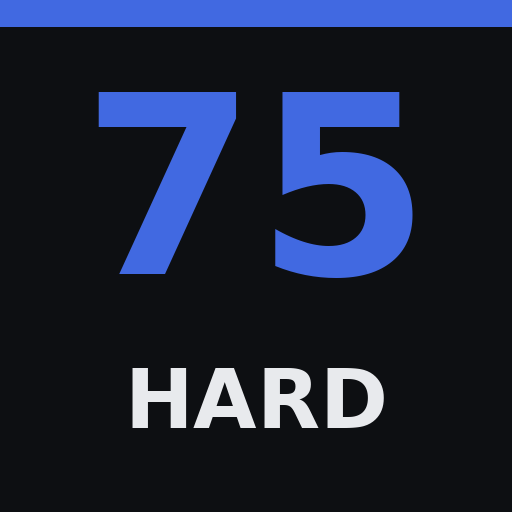
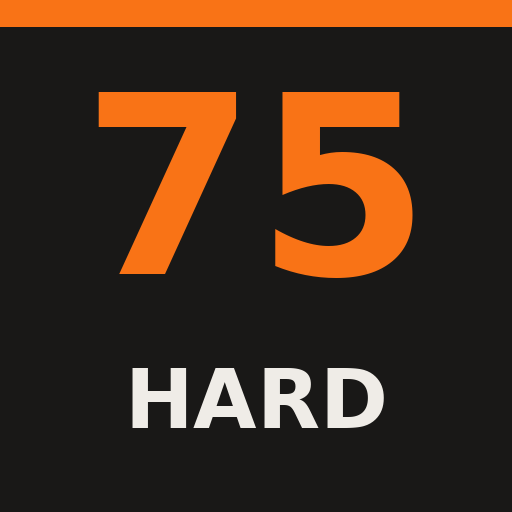
Add files via upload

Changed region(s): [[0.5312, 0.1562, 0.8125, 0.5625], [0.0, 0.0, 1.0, 0.0625], [0.1875, 0.1562, 0.4688, 0.5625]]

diff --git a/index.html b/index.html
@@ -5,14 +5,14 @@
 <meta name="viewport" content="width=device-width, initial-scale=1, maximum-scale=1, user-scalable=no">
 <meta name="apple-mobile-web-app-capable" content="yes">
 <meta name="apple-mobile-web-app-status-bar-style" content="black-translucent">
-<meta name="theme-color" content="#0d0f12">
+<meta name="theme-color" content="#191817">
 <link rel="apple-touch-icon" href="apple-touch-icon.png">
 <link rel="icon" type="image/png" href="apple-touch-icon.png">
 <title>75 HARD</title>
 <style>
   :root{
-    --bg:#0d0f12; --card:#171a20; --card2:#1f242c; --line:#2a3038;
-    --txt:#e8eaed; --dim:#8a93a0; --acc:#4169e1; --accD:#1c2f66;
+    --bg:#191817; --card:#232120; --card2:#2d2a27; --line:#3a3733;
+    --txt:#efece7; --dim:#969087; --acc:#f97316; --accD:#7c2d12;
     --red:#f87171; --amber:#fbbf24; --blue:#60a5fa;
   }
   *{box-sizing:border-box; -webkit-tap-highlight-color:transparent;}
@@ -43,7 +43,7 @@
   .rule .box{width:26px; height:26px; min-width:26px; border-radius:8px;
     border:2px solid var(--line); display:flex; align-items:center;
     justify-content:center; font-size:15px; color:transparent; transition:.15s;}
-  .rule.done .box{background:var(--acc); border-color:var(--acc); color:#fff;}
+  .rule.done .box{background:var(--acc); border-color:var(--acc); color:#2b1102;}
   .rule.done .lbl{color:var(--dim); text-decoration:line-through;}
   .rule.exempt{opacity:.45;}
   .rule .sub{font-size:12px; color:var(--dim); margin-top:1px;}
@@ -55,7 +55,7 @@
   button{background:var(--card2); color:var(--txt); border:1px solid var(--line);
     border-radius:10px; padding:10px 14px; font-size:14px; font-weight:600;}
   button:active{background:var(--line);}
-  button.pri{background:var(--acc); color:#fff; border-color:var(--acc);}
+  button.pri{background:var(--acc); color:#2b1102; border-color:var(--acc);}
   /* page slide */
   @keyframes slideInL{from{transform:translateX(36px); opacity:.3}to{transform:none; opacity:1}}
   @keyframes slideInR{from{transform:translateX(-36px); opacity:.3}to{transform:none; opacity:1}}
@@ -643,7 +643,7 @@ function renderBody(){
   const ws=S.body.filter(b=>b.w).map(b=>({x:b.d,y:b.w}));
   if(!ws.length){el.innerHTML='<p class="hint">Log your weight each Sunday. Trend shows here.</p>';return;}
   el.innerHTML='<div class="hint" style="margin-top:8px">Weight: '+ws[0].y+' → <b style="color:var(--acc)">'+ws[ws.length-1].y+' lb</b></div>'+
-    '<svg width="100%" height="60" viewBox="0 0 300 60" preserveAspectRatio="none">'+sline(ws,'#4169e1',300,60)+'</svg>';
+    '<svg width="100%" height="60" viewBox="0 0 300 60" preserveAspectRatio="none">'+sline(ws,'#f97316',300,60)+'</svg>';
 }
 // ----- photo timeline -----
 function photoDays(){